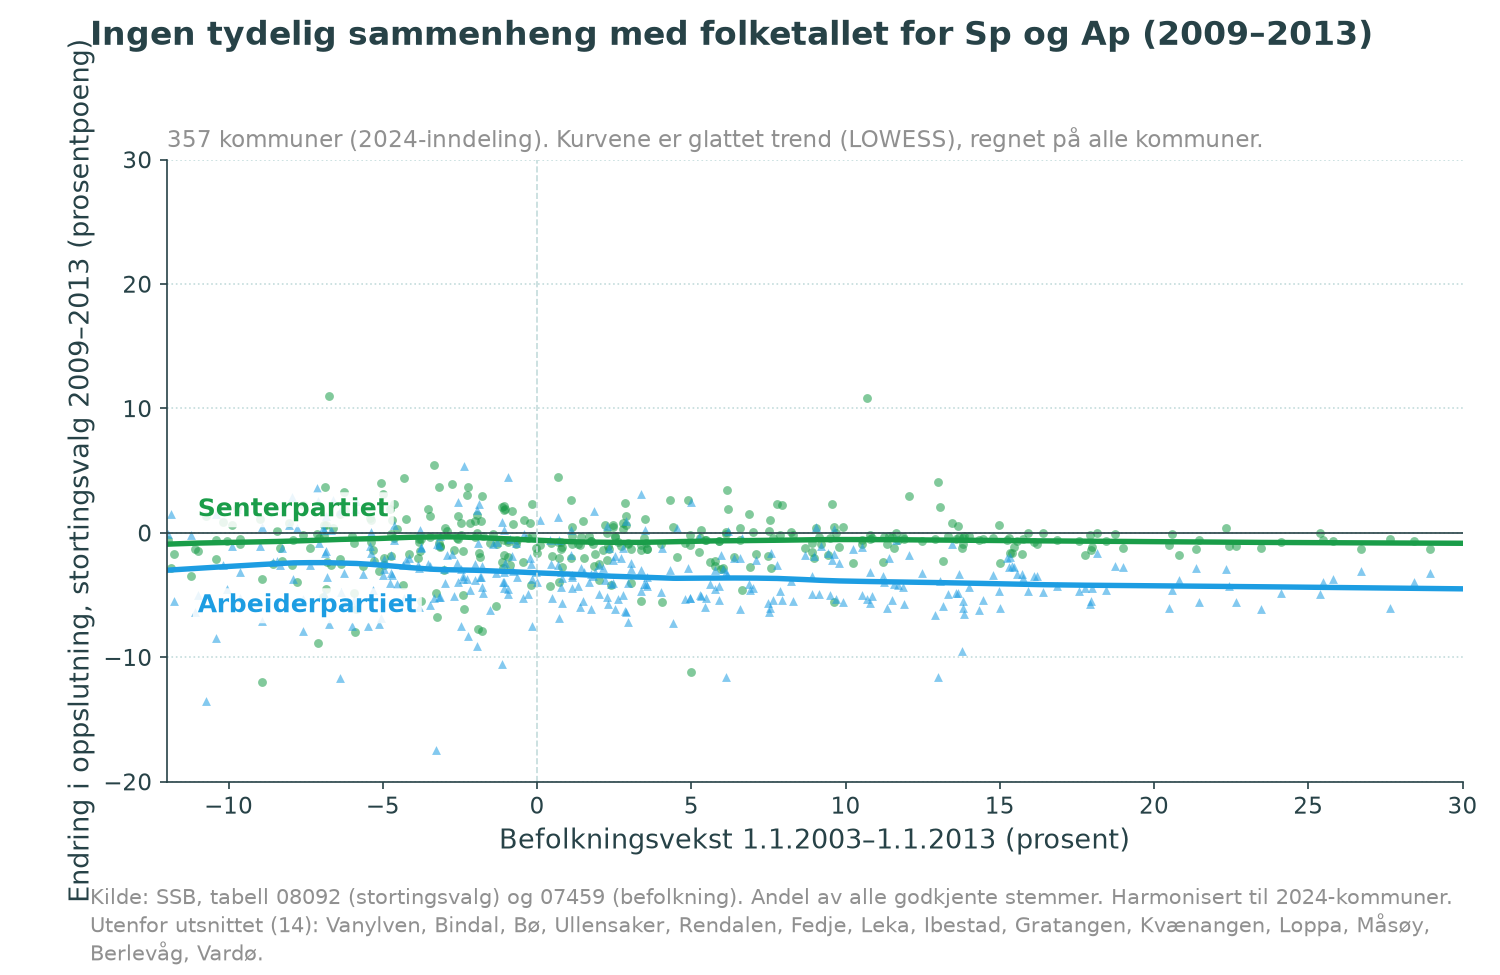
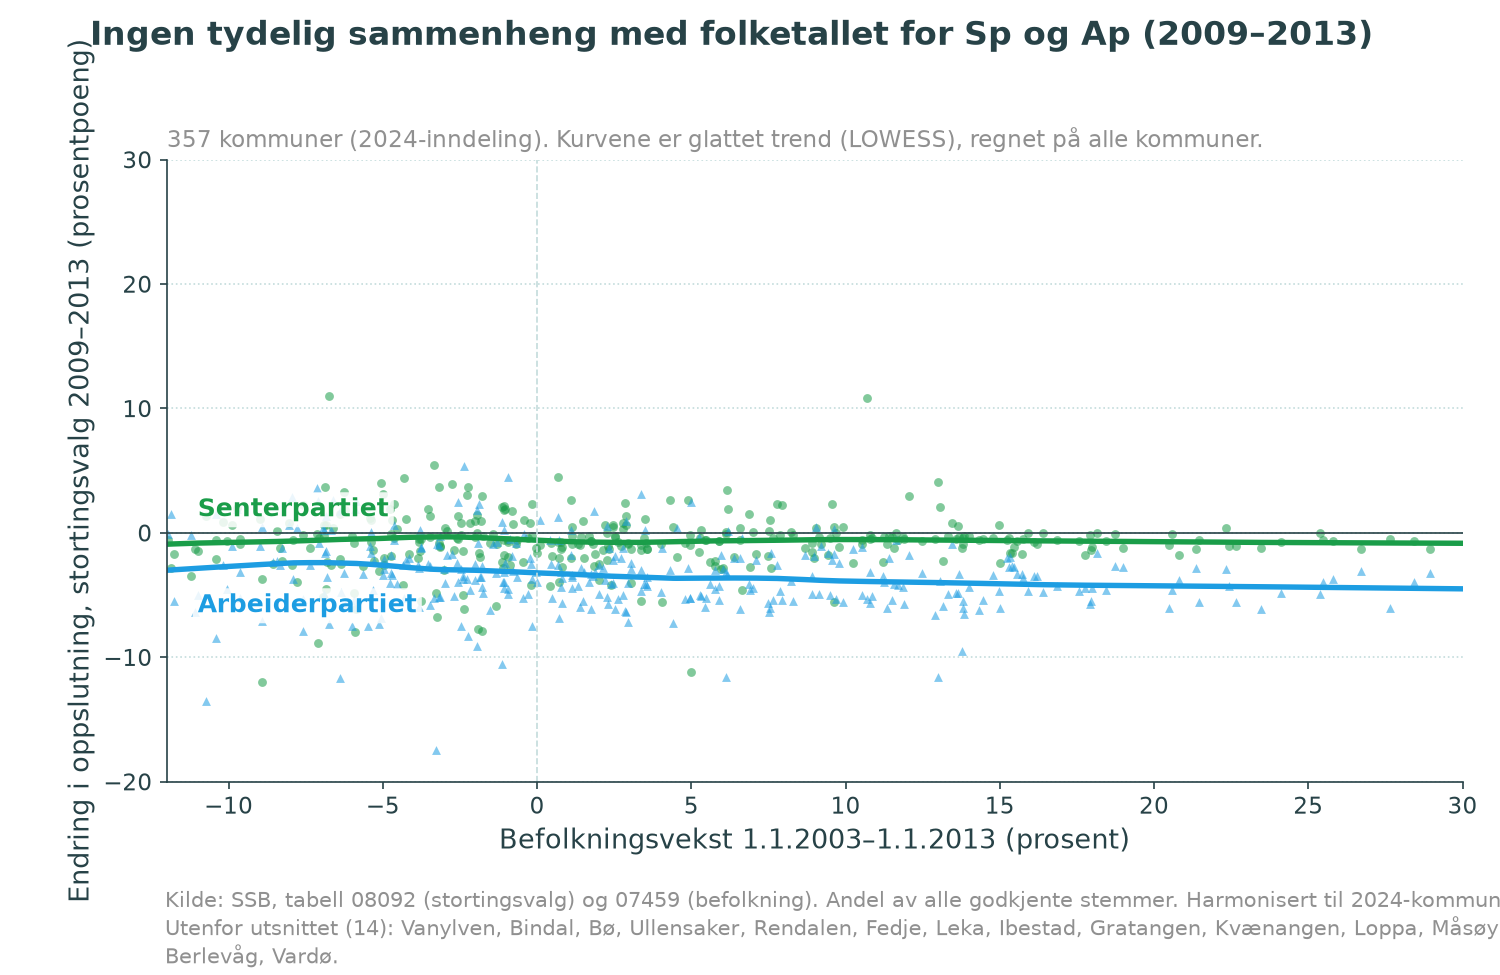
Figurer: flytt fotnote bort fra aksetittel
Claude-Session: https://claude.ai/code/session_01Gpixwi4b6B6pqozujPHFCG

Changed region(s): [[0.0613, 0.8923, 1.0, 1.0]]

diff --git a/analyse/figur_parti_vs_befolkning.py b/analyse/figur_parti_vs_befolkning.py
@@ -70,7 +70,7 @@ fig.suptitle(TITTEL.get((annet, PERIODE), f"Endring for Sp og {navn2} etter befo
              x=0.06, ha="left", fontsize=16, fontweight="bold", color=TEKST, family=["Roboto Condensed", "DejaVu Sans"])
 ax.set_title("357 kommuner (2024-inndeling). Kurvene er glattet trend (LOWESS), regnet på alle kommuner.",
              loc="left", fontsize=11, color=GRÅ)
-fig.text(0.06, 0.015, "Kilde: SSB, tabell 08092 (stortingsvalg) og 07459 (befolkning). Andel av alle godkjente stemmer. "
+fig.text(0.11, 0.012, "Kilde: SSB, tabell 08092 (stortingsvalg) og 07459 (befolkning). Andel av alle godkjente stemmer. "
          "Harmonisert til 2024-kommuner.\n"
          + textwrap.fill(f"Utenfor utsnittet ({len(utenfor)}): " + ", ".join(utenfor["navn"].str.split(" - ").str[0]) + ".", 125),
          fontsize=10, color=GRÅ)
